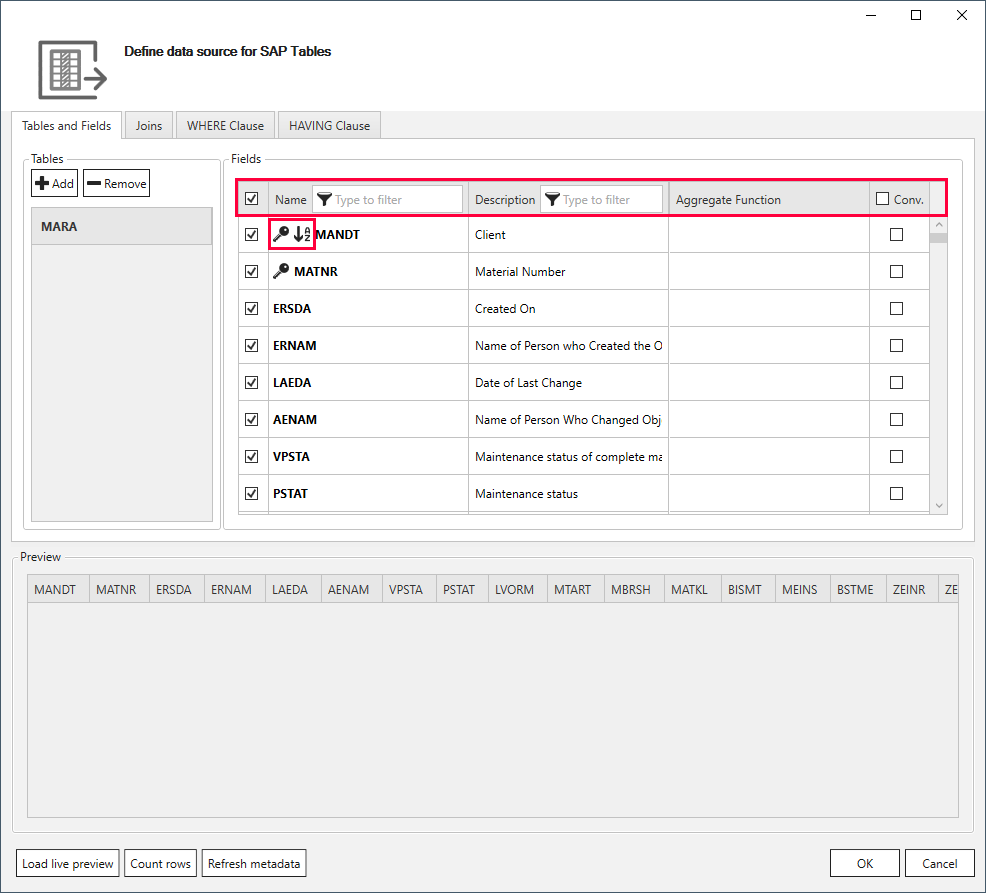
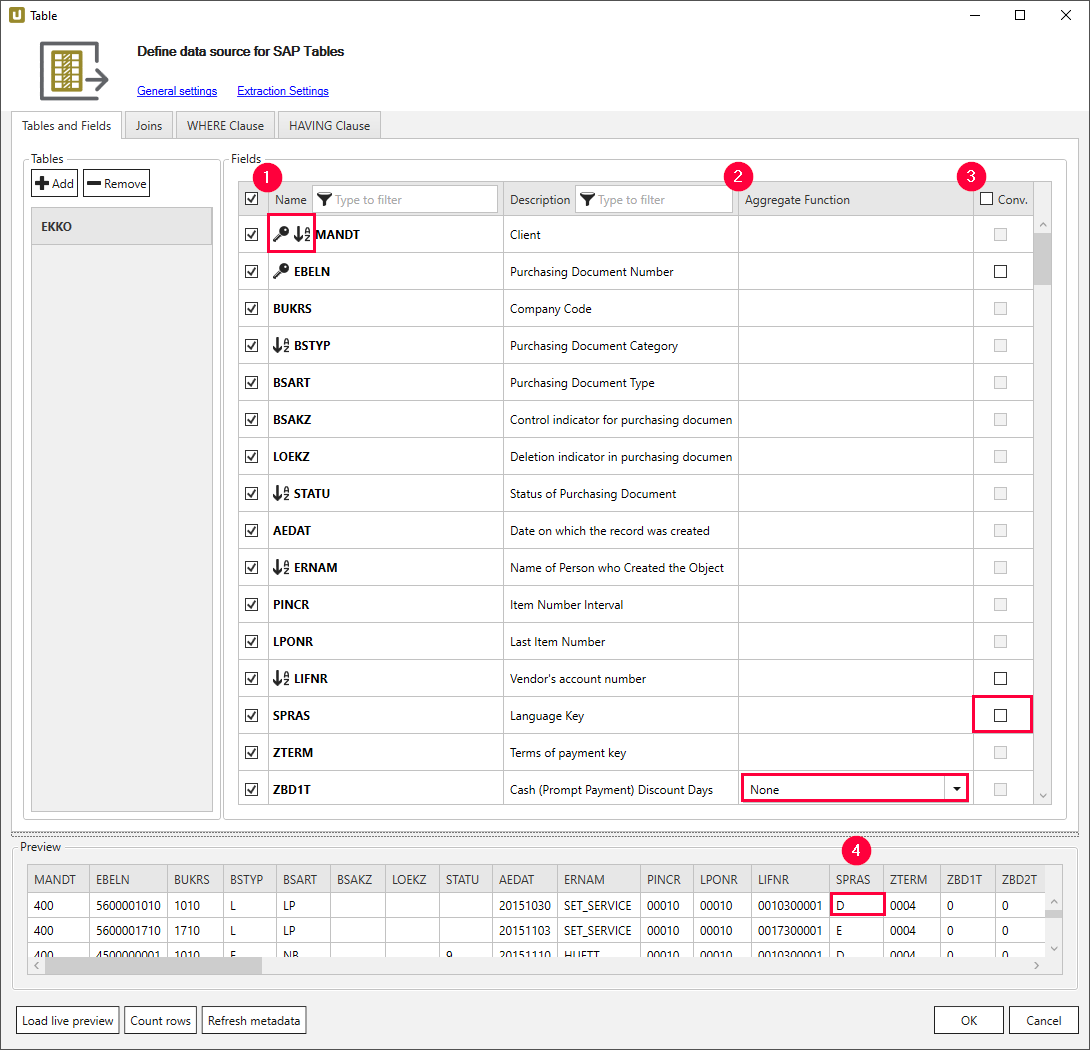
conversion exits reworked

Changed region(s): [[0.0, 0.0, 1.0, 1.0], [0.9736, 0.0, 1.0, 0.0302], [0.9128, 0.0, 0.9432, 0.0302]]

diff --git a/_includes/_content/en/tables/tables-and-fields.md b/_includes/_content/en/tables/tables-and-fields.md
@@ -13,15 +13,15 @@ To add a new table or remove an existing table, click **[Add]** or **[Remove]**.
 ![Fields](/img/content/table/table_fields_filter.png){:class="img-responsive"}
 The following options are available on the right under *Fields* for the column selection: <br>
 
-The Table component imports and highlights the dedicated indices, such as primary key or sorting options, from SAP. 
+The Table component imports and highlights the dedicated indices, such as primary key and/or sorting options, from SAP. 
 
 {: .box-note}
 **Note:** using the indicated fields for filtering increases performance when applying WHERE-clause.
 
-**Filter** <br>
+**Filter(1)** <br>
 The column name and the column description can be filtered.
 
-**Aggregate Function** <br>
+**Aggregate Function(2)** <br>
 The following aggregation functions are available for column contents:
 - None: No aggregation 
 - MEAN: Average
@@ -33,15 +33,19 @@ The following aggregation functions are available for column contents:
 {: .box-tip }
 **Tipp:** The aggregate function is only available by numeric field data types (e.g., INT, FLOAT, DECIMAL).
 
-**Conv. - Use Conversion Routine** <br>
-Activating the checkboxes defines whether the conversion routines stored in the Data Dictionary are used for the respective fields. 
-Typical examples are the language key (for example, D in the database, but DE after conversion) or the project number (for example, T000012738GT in the database, T/12738/GT after conversion). 
-After the conversion, the value is always displayed as it would appear in a transaction in the SAP GUI. 
+**Conv. - Use Conversion Routine(3)** <br>
+Activating the tri-state checkbox defines whether the conversion routines stored in the Data Dictionary are used for the respective fields. 
+![Conversion routine](/img/content/table/table_fields_filter2.png){:class="img-responsive"}
 
-<!---
-{: .box-note}
-**Note:** the option "Use Conversion Routine" is only supported with function module [Z_XTRACT_IS_TABLE_COMPRESSION](./extraction-settings). 
---->
+|Checkbox State | Description | Comment |
+|-----|-----|
+|- [ ] | no conversion routines selected | | 
+|- [X]| conversion routines enabled;<br> only avaiable with function module Z_XTRACT_IS_TABLE_COMPRESSION | no data type safety |
+|- [■]    | conversion routines enabled;<br> only avaiable with function module Z_THEO_READ_TABLE | assured data type safety |
+|- [V] | &squf;| |
+
+Typical examples are the language key (for example, D **(4)** in the database, but DE after conversion) or the project number (for example, T000012738GT in the database, T/12738/GT after conversion). 
+After the conversion, the value is always displayed as it appears in the transaction *SE16N* in the SAP GUI. 
 
 ### Preview
 The subsection *Preview* displays a real-time preview of the selected fields, when the button **"[Load live preview]** is clicked.
